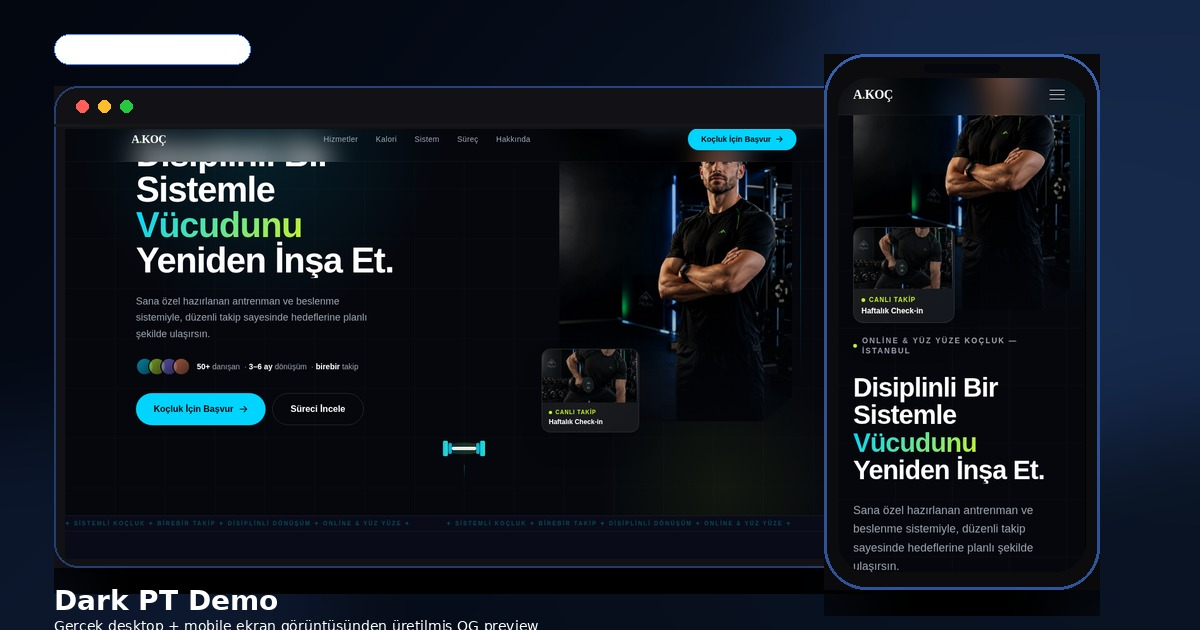
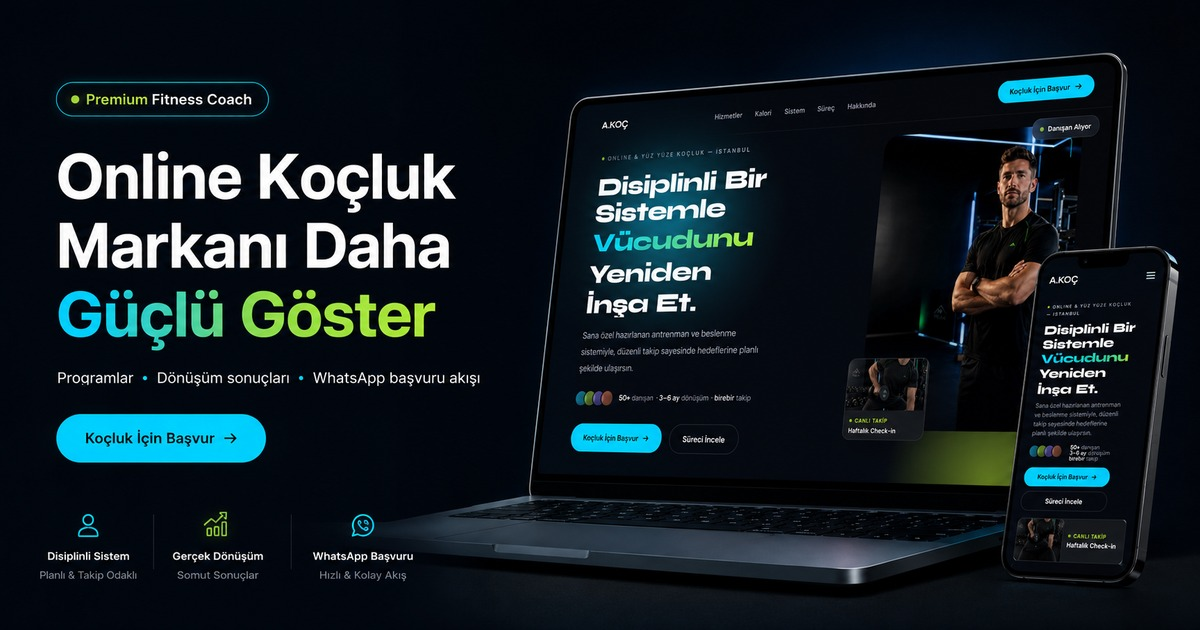
Update Dark OG preview

diff --git a/dark/index.html b/dark/index.html
@@ -3,24 +3,24 @@
 <head>
 <meta charset="UTF-8"/>
 <meta name="viewport" content="width=device-width,initial-scale=1.0"/>
-<title>Dark PT | Premium Fitness Coach Website Demo</title>
-<meta name="description" content="Güçlü, maskülen ve yüksek kontrastlı fitness koçu dijital vitrin demosu. Mobil ve masaüstü uyumlu premium görünüm.">
+<title>Dark Demo | Premium Fitness Coach İçin Güçlü Dijital Vitrin</title>
+<meta name="description" content="Online fitness koçları için programları, dönüşüm sonuçlarını ve WhatsApp başvuru akışını güçlü gösteren Dark demo.">
 <style>@import "https://fonts.googleapis.com/css2?family=Syne:wght@400;500;600;700;800&family=DM+Sans:ital,opsz,wght@0,9..40,300;0,9..40,400;0,9..40,500;0,9..40,600;1,9..40,300&display=swap";*,:before,:after,::backdrop{--tw-border-spacing-x:0;--tw-border-spacing-y:0;--tw-translate-x:0;--tw-translate-y:0;--tw-rotate:0;--tw-skew-x:0;--tw-skew-y:0;--tw-scale-x:1;--tw-scale-y:1;--tw-pan-x: ;--tw-pan-y: ;--tw-pinch-zoom: ;--tw-scroll-snap-strictness:proximity;--tw-gradient-from-position: ;--tw-gradient-via-position: ;--tw-gradient-to-position: ;--tw-ordinal: ;--tw-slashed-zero: ;--tw-numeric-figure: ;--tw-numeric-spacing: ;--tw-numeric-fraction: ;--tw-ring-inset: ;--tw-ring-offset-width:0px;--tw-ring-offset-color:#fff;--tw-ring-color:#3b82f680;--tw-ring-offset-shadow:0 0 #0000;--tw-ring-shadow:0 0 #0000;--tw-shadow:0 0 #0000;--tw-shadow-colored:0 0 #0000;--tw-blur: ;--tw-brightness: ;--tw-contrast: ;--tw-grayscale: ;--tw-hue-rotate: ;--tw-invert: ;--tw-saturate: ;--tw-sepia: ;--tw-drop-shadow: ;--tw-backdrop-blur: ;--tw-backdrop-brightness: ;--tw-backdrop-contrast: ;--tw-backdrop-grayscale: ;--tw-backdrop-hue-rotate: ;--tw-backdrop-invert: ;--tw-backdrop-opacity: ;--tw-backdrop-saturate: ;--tw-backdrop-sepia: ;--tw-contain-size: ;--tw-contain-layout: ;--tw-contain-paint: ;--tw-contain-style: }*,:before,:after{box-sizing:border-box;border:0 solid #e5e7eb}:before,:after{--tw-content:""}html,:host{-webkit-text-size-adjust:100%;tab-size:4;font-feature-settings:normal;font-variation-settings:normal;-webkit-tap-highlight-color:transparent;font-family:ui-sans-serif,system-ui,sans-serif,Apple Color Emoji,Segoe UI Emoji,Segoe UI Symbol,Noto Color Emoji;line-height:1.5}body{line-height:inherit;margin:0}hr{height:0;color:inherit;border-top-width:1px}abbr:where([title]){-webkit-text-decoration:underline dotted;text-decoration:underline dotted}h1,h2,h3,h4,h5,h6{font-size:inherit;font-weight:inherit}a{color:inherit;-webkit-text-decoration:inherit;text-decoration:inherit}b,strong{font-weight:bolder}code,kbd,samp,pre{font-feature-settings:normal;font-variation-settings:normal;font-family:ui-monospace,SFMono-Regular,Menlo,Monaco,Consolas,Liberation Mono,Courier New,monospace;font-size:1em}small{font-size:80%}sub,sup{vertical-align:baseline;font-size:75%;line-height:0;position:relative}sub{bottom:-.25em}sup{top:-.5em}table{text-indent:0;border-color:inherit;border-collapse:collapse}button,input,optgroup,select,textarea{font-feature-settings:inherit;font-variation-settings:inherit;font-family:inherit;font-size:100%;font-weight:inherit;line-height:inherit;letter-spacing:inherit;color:inherit;margin:0;padding:0}button,select{text-transform:none}button,input:where([type=button]),input:where([type=reset]),input:where([type=submit]){-webkit-appearance:button;background-color:#0000;background-image:none}:-moz-focusring{outline:auto}:-moz-ui-invalid{box-shadow:none}progress{vertical-align:baseline}::-webkit-inner-spin-button{height:auto}::-webkit-outer-spin-button{height:auto}[type=search]{-webkit-appearance:textfield;outline-offset:-2px}::-webkit-search-decoration{-webkit-appearance:none}::-webkit-file-upload-button{-webkit-appearance:button;font:inherit}summary{display:list-item}blockquote,dl,dd,h1,h2,h3,h4,h5,h6,hr,figure,p,pre{margin:0}fieldset{margin:0;padding:0}legend{padding:0}ol,ul,menu{margin:0;padding:0;list-style:none}dialog{padding:0}textarea{resize:vertical}input::-moz-placeholder{opacity:1;color:#9ca3af}textarea::-moz-placeholder{opacity:1;color:#9ca3af}input::placeholder,textarea::placeholder{opacity:1;color:#9ca3af}button,[role=button]{cursor:pointer}:disabled{cursor:default}img,svg,video,canvas,audio,iframe,embed,object{vertical-align:middle;display:block}img,video{max-width:100%;height:auto}[hidden]:where(:not([hidden=until-found])){display:none}.pointer-events-none{pointer-events:none}.visible{visibility:visible}.fixed{position:fixed}.absolute{position:absolute}.relative{position:relative}.sticky{position:sticky}.inset-0{inset:0}.-bottom-4{bottom:-1rem}.-bottom-40{bottom:-10rem}.-bottom-5{bottom:-1.25rem}.-left-2{left:-.5rem}.-right-2{right:-.5rem}.-right-4{right:-1rem}.-right-5{right:-1.25rem}.-top-3{top:-.75rem}.-top-40{top:-10rem}.-top-5{top:-1.25rem}.bottom-0{bottom:0}.bottom-5{bottom:1.25rem}.bottom-8{bottom:2rem}.bottom-\[15\%\]{bottom:15%}.left-0{left:0}.left-1\/2{left:50%}.left-4{left:1rem}.left-5{left:1.25rem}.right-0{right:0}.right-4{right:1rem}.right-5{right:1.25rem}.top-0{top:0}.top-1\/2{top:50%}.top-10{top:2.5rem}.top-4{top:1rem}.top-5{top:1.25rem}.top-\[15\%\]{top:15%}.z-10{z-index:10}.z-50{z-index:50}.order-1{order:1}.order-2{order:2}.mx-auto{margin-left:auto;margin-right:auto}.-mt-4{margin-top:-1rem}.mb-0\.5{margin-bottom:.125rem}.mb-10{margin-bottom:2.5rem}.mb-14{margin-bottom:3.5rem}.mb-16{margin-bottom:4rem}.mb-2{margin-bottom:.5rem}.mb-20{margin-bottom:5rem}.mb-4{margin-bottom:1rem}.mb-6{margin-bottom:1.5rem}.mt-14{margin-top:3.5rem}.mt-16{margin-top:4rem}.mt-2{margin-top:.5rem}.mt-3{margin-top:.75rem}.mt-4{margin-top:1rem}.block{display:block}.flex{display:flex}.inline-flex{display:inline-flex}.grid{display:grid}.hidden{display:none}.h-1\.5{height:.375rem}.h-10{height:2.5rem}.h-11{height:2.75rem}.h-12{height:3rem}.h-16{height:4rem}.h-2{height:.5rem}.h-20{height:5rem}.h-24{height:6rem}.h-3\.5{height:.875rem}.h-4{height:1rem}.h-5{height:1.25rem}.h-52{height:13rem}.h-6{height:1.5rem}.h-7{height:1.75rem}.h-8{height:2rem}.h-9{height:2.25rem}.h-\[500px\]{height:500px}.h-\[600px\]{height:600px}.h-\[700px\]{height:700px}.h-\[900px\]{height:900px}.h-full{height:100%}.h-px{height:1px}.min-h-\[100dvh\]{min-height:100dvh}.min-h-screen{min-height:100vh}.w-0\.5{width:.125rem}.w-1{width:.25rem}.w-1\.5{width:.375rem}.w-10{width:2.5rem}.w-11{width:2.75rem}.w-12{width:3rem}.w-2{width:.5rem}.w-20{width:5rem}.w-3\.5{width:.875rem}.w-4{width:1rem}.w-40{width:10rem}.w-5{width:1.25rem}.w-6{width:1.5rem}.w-7{width:1.75rem}.w-8{width:2rem}.w-9{width:2.25rem}.w-\[500px\]{width:500px}.w-\[600px\]{width:600px}.w-\[700px\]{width:700px}.w-\[900px\]{width:900px}.w-full{width:100%}.w-px{width:1px}.max-w-2xl{max-width:42rem}.max-w-4xl{max-width:56rem}.max-w-7xl{max-width:80rem}.max-w-\[360px\]{max-width:360px}.max-w-md{max-width:28rem}.max-w-sm{max-width:24rem}.max-w-xs{max-width:20rem}.flex-1{flex:1}.flex-shrink-0{flex-shrink:0}.-translate-x-1\/2{--tw-translate-x:-50%;transform:translate(var(--tw-translate-x), var(--tw-translate-y)) rotate(var(--tw-rotate)) skewX(var(--tw-skew-x)) skewY(var(--tw-skew-y)) scaleX(var(--tw-scale-x)) scaleY(var(--tw-scale-y))}.-translate-y-1\/2{--tw-translate-y:-50%;transform:translate(var(--tw-translate-x), var(--tw-translate-y)) rotate(var(--tw-rotate)) skewX(var(--tw-skew-x)) skewY(var(--tw-skew-y)) scaleX(var(--tw-scale-x)) scaleY(var(--tw-scale-y))}.-translate-y-px{--tw-translate-y:-1px;transform:translate(var(--tw-translate-x), var(--tw-translate-y)) rotate(var(--tw-rotate)) skewX(var(--tw-skew-x)) skewY(var(--tw-skew-y)) scaleX(var(--tw-scale-x)) scaleY(var(--tw-scale-y))}.translate-y-0{--tw-translate-y:0px;transform:translate(var(--tw-translate-x), var(--tw-translate-y)) rotate(var(--tw-rotate)) skewX(var(--tw-skew-x)) skewY(var(--tw-skew-y)) scaleX(var(--tw-scale-x)) scaleY(var(--tw-scale-y))}.translate-y-8{--tw-translate-y:2rem;transform:translate(var(--tw-translate-x), var(--tw-translate-y)) rotate(var(--tw-rotate)) skewX(var(--tw-skew-x)) skewY(var(--tw-skew-y)) scaleX(var(--tw-scale-x)) scaleY(var(--tw-scale-y))}.translate-y-px{--tw-translate-y:1px;transform:translate(var(--tw-translate-x), var(--tw-translate-y)) rotate(var(--tw-rotate)) skewX(var(--tw-skew-x)) skewY(var(--tw-skew-y)) scaleX(var(--tw-scale-x)) scaleY(var(--tw-scale-y))}.-rotate-45{--tw-rotate:-45deg;transform:translate(var(--tw-translate-x), var(--tw-translate-y)) rotate(var(--tw-rotate)) skewX(var(--tw-skew-x)) skewY(var(--tw-skew-y)) scaleX(var(--tw-scale-x)) scaleY(var(--tw-scale-y))}.rotate-45{--tw-rotate:45deg;transform:translate(var(--tw-translate-x), var(--tw-translate-y)) rotate(var(--tw-rotate)) skewX(var(--tw-skew-x)) skewY(var(--tw-skew-y)) scaleX(var(--tw-scale-x)) scaleY(var(--tw-scale-y))}.transform{transform:translate(var(--tw-translate-x), var(--tw-translate-y)) rotate(var(--tw-rotate)) skewX(var(--tw-skew-x)) skewY(var(--tw-skew-y)) scaleX(var(--tw-scale-x)) scaleY(var(--tw-scale-y))}@keyframes ping{75%,to{opacity:0;transform:scale(2)}}.animate-ping{animation:1s cubic-bezier(0,0,.2,1) infinite ping}@keyframes pulse{50%{opacity:.5}}.animate-pulse{animation:2s cubic-bezier(.4,0,.6,1) infinite pulse}.cursor-ew-resize{cursor:ew-resize}.cursor-pointer{cursor:pointer}.select-none{-webkit-user-select:none;user-select:none}.grid-cols-1{grid-template-columns:repeat(1,minmax(0,1fr))}.grid-cols-2{grid-template-columns:repeat(2,minmax(0,1fr))}.flex-col{flex-direction:column}.items-start{align-items:flex-start}.items-center{align-items:center}.justify-center{justify-content:center}.justify-between{justify-content:space-between}.gap-0{gap:0}.gap-1{gap:.25rem}.gap-1\.5{gap:.375rem}.gap-10{gap:2.5rem}.gap-12{gap:3rem}.gap-16{gap:4rem}.gap-2{gap:.5rem}.gap-2\.5{gap:.625rem}.gap-3{gap:.75rem}.gap-4{gap:1rem}.gap-5{gap:1.25rem}.gap-6{gap:1.5rem}.gap-7{gap:1.75rem}.gap-8{gap:2rem}.-space-x-2\.5>:not([hidden])~:not([hidden]){--tw-space-x-reverse:0;margin-right:calc(-.625rem * var(--tw-space-x-reverse));margin-left:calc(-.625rem * calc(1 - var(--tw-space-x-reverse)))}.self-start{align-self:flex-start}.overflow-hidden{overflow:hidden}.whitespace-nowrap{white-space:nowrap}.rounded-2xl{border-radius:1rem}.rounded-\[2rem\]{border-radius:2rem}.rounded-full{border-radius:9999px}.rounded-xl{border-radius:.75rem}.rounded-r-full{border-top-right-radius:9999px;border-bottom-right-radius:9999px}.rounded-bl-xl{border-bottom-left-radius:.75rem}.rounded-tr-xl{border-top-right-radius:.75rem}.border{border-width:1px}.border-2{border-width:2px}.border-y{border-top-width:1px;border-bottom-width:1px}.border-b{border-bottom-width:1px}.border-b-2{border-bottom-width:2px}.border-l-2{border-left-width:2px}.border-r-2{border-right-width:2px}.border-t{border-top-width:1px}.border-t-2{border-top-width:2px}.border-\[\#00D4FF\]\/50{border-color:#00d4ff80}.border-\[\#05070D\]{--tw-border-opacity:1;border-color:rgb(5 7 13/var(--tw-border-opacity,1))}.border-\[\#C3F22F\]\/40{border-color:#c3f22f66}.border-white\/10{border-color:#ffffff1a}.border-white\/15{border-color:#ffffff26}.border-white\/20{border-color:#fff3}.border-white\/30{border-color:#ffffff4d}.border-white\/5,.border-white\/\[0\.05\]{border-color:#ffffff0d}.border-white\/\[0\.07\]{border-color:#ffffff12}.border-white\/\[0\.08\]{border-color:#ffffff14}.border-white\/\[0\.10\]{border-color:#ffffff1a}.bg-\[\#00D4FF\]{--tw-bg-opacity:1;background-color:rgb(0 212 255/var(--tw-bg-opacity,1))}.bg-\[\#00D4FF\]\/20{background-color:#00d4ff33}.bg-\[\#05070D\]{--tw-bg-opacity:1;background-color:rgb(5 7 13/var(--tw-bg-opacity,1))}.bg-\[\#05070D\]\/40{background-color:#05070d66}.bg-\[\#05070D\]\/60{background-color:#05070d99}.bg-\[\#0B1020\]{--tw-bg-opacity:1;background-color:rgb(11 16 32/var(--tw-bg-opacity,1))}.bg-\[\#0B1020\]\/50{background-color:#0b102080}.bg-\[\#0B1020\]\/60{background-color:#0b102099}.bg-\[\#0B1020\]\/90{background-color:#0b1020e6}.bg-\[\#C3F22F\]{--tw-bg-opacity:1;background-color:rgb(195 242 47/var(--tw-bg-opacity,1))}.bg-\[\#C3F22F\]\/20{background-color:#c3f22f33}.bg-accent{--tw-bg-opacity:1;background-color:rgb(0 212 255/var(--tw-bg-opacity,1))}.bg-transparent{background-color:#0000}.bg-white{--tw-bg-opacity:1;background-color:rgb(255 255 255/var(--tw-bg-opacity,1))}.bg-white\/10{background-color:#ffffff1a}.bg-white\/50{background-color:#ffffff80}.bg-white\/\[0\.05\]{background-color:#ffffff0d}.bg-white\/\[0\.06\]{background-color:#ffffff0f}.bg-white\/\[0\.07\]{background-color:#ffffff12}.bg-gradient-to-b{background-image:linear-gradient(to bottom, var(--tw-gradient-stops))}.from-\[\#00D4FF\]\/50{--tw-gradient-from:#00d4ff80 var(--tw-gradient-from-position);--tw-gradient-to:#00d4ff00 var(--tw-gradient-to-position);--tw-gradient-stops:var(--tw-gradient-from), var(--tw-gradient-to)}.to-transparent{--tw-gradient-to:transparent var(--tw-gradient-to-position)}.object-cover{-o-object-fit:cover;object-fit:cover}.object-top{-o-object-position:top;object-position:top}.p-2{padding:.5rem}.p-4{padding:1rem}.p-5{padding:1.25rem}.p-6{padding:1.5rem}.p-7{padding:1.75rem}.px-10{padding-left:2.5rem;padding-right:2.5rem}.px-12{padding-left:3rem;padding-right:3rem}.px-2\.5{padding-left:.625rem;padding-right:.625rem}.px-3{padding-left:.75rem;padding-right:.75rem}.px-3\.5{padding-left:.875rem;padding-right:.875rem}.px-4{padding-left:1rem;padding-right:1rem}.px-5{padding-left:1.25rem;padding-right:1.25rem}.px-6{padding-left:1.5rem;padding-right:1.5rem}.px-8{padding-left:2rem;padding-right:2rem}.py-1{padding-top:.25rem;padding-bottom:.25rem}.py-1\.5{padding-top:.375rem;padding-bottom:.375rem}.py-10{padding-top:2.5rem;padding-bottom:2.5rem}.py-16{padding-top:4rem;padding-bottom:4rem}.py-2\.5{padding-top:.625rem;padding-bottom:.625rem}.py-24{padding-top:6rem;padding-bottom:6rem}.py-3{padding-top:.75rem;padding-bottom:.75rem}.py-32{padding-top:8rem;padding-bottom:8rem}.py-4{padding-top:1rem;padding-bottom:1rem}.py-5{padding-top:1.25rem;padding-bottom:1.25rem}.py-6{padding-top:1.5rem;padding-bottom:1.5rem}.pb-12{padding-bottom:3rem}.pb-6{padding-bottom:1.5rem}.pt-1{padding-top:.25rem}.pt-2{padding-top:.5rem}.pt-24{padding-top:6rem}.pt-4{padding-top:1rem}.text-left{text-align:left}.text-center{text-align:center}.font-display{font-family:Syne,sans-serif}.text-2xl{font-size:1.5rem;line-height:2rem}.text-3xl{font-size:1.875rem;line-height:2.25rem}.text-4xl{font-size:2.25rem;line-height:2.5rem}.text-5xl{font-size:3rem;line-height:1}.text-\[1\.02rem\]{font-size:1.02rem}.text-\[10px\]{font-size:10px}.text-\[2\.6rem\]{font-size:2.6rem}.text-base{font-size:1rem;line-height:1.5rem}.text-lg{font-size:1.125rem;line-height:1.75rem}.text-sm{font-size:.875rem;line-height:1.25rem}.text-xl{font-size:1.25rem;line-height:1.75rem}.text-xs{font-size:.75rem;line-height:1rem}.font-bold{font-weight:700}.font-extrabold{font-weight:800}.font-medium{font-weight:500}.font-semibold{font-weight:600}.uppercase{text-transform:uppercase}.italic{font-style:italic}.tabular-nums{--tw-numeric-spacing:tabular-nums;font-variant-numeric:var(--tw-ordinal) var(--tw-slashed-zero) var(--tw-numeric-figure) var(--tw-numeric-spacing) var(--tw-numeric-fraction)}.leading-\[1\.04\]{line-height:1.04}.leading-none{line-height:1}.leading-relaxed{line-height:1.625}.leading-snug{line-height:1.375}.leading-tight{line-height:1.25}.tracking-\[\.18em\]{letter-spacing:.18em}.tracking-\[\.25em\]{letter-spacing:.25em}.tracking-\[\.2em\],.tracking-\[0\.2em\]{letter-spacing:.2em}.tracking-tight{letter-spacing:-.025em}.tracking-wide{letter-spacing:.025em}.tracking-widest{letter-spacing:.1em}.text-\[\#00D4FF\]{--tw-text-opacity:1;color:rgb(0 212 255/var(--tw-text-opacity,1))}.text-\[\#00D4FF\]\/30{color:#00d4ff4d}.text-\[\#05070D\]{--tw-text-opacity:1;color:rgb(5 7 13/var(--tw-text-opacity,1))}.text-\[\#9AA4B2\]{--tw-text-opacity:1;color:rgb(154 164 178/var(--tw-text-opacity,1))}.text-\[\#9AA4B2\]\/50{color:#9aa4b280}.text-\[\#9AA4B2\]\/60{color:#9aa4b299}.text-\[\#C3F22F\]{--tw-text-opacity:1;color:rgb(195 242 47/var(--tw-text-opacity,1))}.text-bg{--tw-text-opacity:1;color:rgb(5 7 13/var(--tw-text-opacity,1))}.text-muted{--tw-text-opacity:1;color:rgb(154 164 178/var(--tw-text-opacity,1))}.text-white{--tw-text-opacity:1;color:rgb(255 255 255/var(--tw-text-opacity,1))}.text-white\/70{color:#ffffffb3}.text-white\/80{color:#fffc}.opacity-0{opacity:0}.opacity-100{opacity:1}.opacity-15{opacity:.15}.opacity-20{opacity:.2}.opacity-\[0\.025\]{opacity:.025}.opacity-\[0\.07\]{opacity:.07}.opacity-\[0\.12\]{opacity:.12}.shadow-2xl{--tw-shadow:0 25px 50px -12px #00000040;--tw-shadow-colored:0 25px 50px -12px var(--tw-shadow-color);box-shadow:var(--tw-ring-offset-shadow,0 0 #0000), var(--tw-ring-shadow,0 0 #0000), var(--tw-shadow)}.shadow-xl{--tw-shadow:0 20px 25px -5px #0000001a, 0 8px 10px -6px #0000001a;--tw-shadow-colored:0 20px 25px -5px var(--tw-shadow-color), 0 8px 10px -6px var(--tw-shadow-color);box-shadow:var(--tw-ring-offset-shadow,0 0 #0000), var(--tw-ring-shadow,0 0 #0000), var(--tw-shadow)}.ring{--tw-ring-offset-shadow:var(--tw-ring-inset) 0 0 0 var(--tw-ring-offset-width) var(--tw-ring-offset-color);--tw-ring-shadow:var(--tw-ring-inset) 0 0 0 calc(3px + var(--tw-ring-offset-width)) var(--tw-ring-color);box-shadow:var(--tw-ring-offset-shadow), var(--tw-ring-shadow), var(--tw-shadow,0 0 #0000)}.blur{--tw-blur:blur(8px);filter:var(--tw-blur) var(--tw-brightness) var(--tw-contrast) var(--tw-grayscale) var(--tw-hue-rotate) var(--tw-invert) var(--tw-saturate) var(--tw-sepia) var(--tw-drop-shadow)}.drop-shadow{--tw-drop-shadow:drop-shadow(0 1px 2px #0000001a) drop-shadow(0 1px 1px #0000000f);filter:var(--tw-blur) var(--tw-brightness) var(--tw-contrast) var(--tw-grayscale) var(--tw-hue-rotate) var(--tw-invert) var(--tw-saturate) var(--tw-sepia) var(--tw-drop-shadow)}.sepia{--tw-sepia:sepia(100%);filter:var(--tw-blur) var(--tw-brightness) var(--tw-contrast) var(--tw-grayscale) var(--tw-hue-rotate) var(--tw-invert) var(--tw-saturate) var(--tw-sepia) var(--tw-drop-shadow)}.filter{filter:var(--tw-blur) var(--tw-brightness) var(--tw-contrast) var(--tw-grayscale) var(--tw-hue-rotate) var(--tw-invert) var(--tw-saturate) var(--tw-sepia) var(--tw-drop-shadow)}.backdrop-blur-2xl{--tw-backdrop-blur:blur(40px);-webkit-backdrop-filter:var(--tw-backdrop-blur) var(--tw-backdrop-brightness) var(--tw-backdrop-contrast) var(--tw-backdrop-grayscale) var(--tw-backdrop-hue-rotate) var(--tw-backdrop-invert) var(--tw-backdrop-opacity) var(--tw-backdrop-saturate) var(--tw-backdrop-sepia);backdrop-filter:var(--tw-backdrop-blur) var(--tw-backdrop-brightness) var(--tw-backdrop-contrast) var(--tw-backdrop-grayscale) var(--tw-backdrop-hue-rotate) var(--tw-backdrop-invert) var(--tw-backdrop-opacity) var(--tw-backdrop-saturate) var(--tw-backdrop-sepia)}.backdrop-blur-xl{--tw-backdrop-blur:blur(24px);-webkit-backdrop-filter:var(--tw-backdrop-blur) var(--tw-backdrop-brightness) var(--tw-backdrop-contrast) var(--tw-backdrop-grayscale) var(--tw-backdrop-hue-rotate) var(--tw-backdrop-invert) var(--tw-backdrop-opacity) var(--tw-backdrop-saturate) var(--tw-backdrop-sepia);backdrop-filter:var(--tw-backdrop-blur) var(--tw-backdrop-brightness) var(--tw-backdrop-contrast) var(--tw-backdrop-grayscale) var(--tw-backdrop-hue-rotate) var(--tw-backdrop-invert) var(--tw-backdrop-opacity) var(--tw-backdrop-saturate) var(--tw-backdrop-sepia)}.transition{transition-property:color,background-color,border-color,text-decoration-color,fill,stroke,opacity,box-shadow,transform,filter,-webkit-backdrop-filter,backdrop-filter;transition-duration:.15s;transition-timing-function:cubic-bezier(.4,0,.2,1)}.transition-all{transition-property:all;transition-duration:.15s;transition-timing-function:cubic-bezier(.4,0,.2,1)}.transition-colors{transition-property:color,background-color,border-color,text-decoration-color,fill,stroke;transition-duration:.15s;transition-timing-function:cubic-bezier(.4,0,.2,1)}.transition-opacity{transition-property:opacity;transition-duration:.15s;transition-timing-function:cubic-bezier(.4,0,.2,1)}.transition-transform{transition-property:transform;transition-duration:.15s;transition-timing-function:cubic-bezier(.4,0,.2,1)}.duration-200{transition-duration:.2s}.duration-300{transition-duration:.3s}.duration-500{transition-duration:.5s}.duration-700{transition-duration:.7s}.duration-\[900ms\]{transition-duration:.9s}.ease-in-out{transition-timing-function:cubic-bezier(.4,0,.2,1)}:root{--ease-premium:cubic-bezier(.22, 1, .36, 1);--accent:#00d4ff;--energy:#c3f22f;--bg:#05070d;--card:#0b1020}*{box-sizing:border-box}html{scroll-behavior:smooth;overflow-x:hidden}body{background:var(--bg);color:#fff;-webkit-font-smoothing:antialiased;font-family:DM Sans,sans-serif;overflow-x:hidden}@media (prefers-reduced-motion:reduce){*,:before,:after{transition-duration:.01ms!important;animation-duration:.01ms!important}}.reveal{opacity:0;transition:opacity .8s var(--ease-premium), transform .8s var(--ease-premium);transform:translateY(40px)}.reveal.visible{opacity:1;transform:translateY(0)}.reveal-left{opacity:0;transition:opacity .9s var(--ease-premium), transform .9s var(--ease-premium);transform:translate(-50px)}.reveal-left.visible{opacity:1;transform:translate(0)}.reveal-scale{opacity:0;transition:opacity .8s var(--ease-premium), transform .8s var(--ease-premium);transform:scale(.92)}.reveal-scale.visible{opacity:1;transform:scale(1)}.clip-reveal{clip-path:inset(0 100% 0 0);transition:clip-path 1.1s var(--ease-premium)}.clip-reveal.visible{clip-path:inset(0 0% 0 0)}.gradient-text{background:linear-gradient(135deg,#00d4ff 0%,#c3f22f 100%);-webkit-text-fill-color:transparent;-webkit-background-clip:text;background-clip:text}.glow-accent{box-shadow:0 0 40px #00d4ff33}::-webkit-scrollbar{width:4px}::-webkit-scrollbar-track{background:var(--bg)}::-webkit-scrollbar-thumb{background:#00d4ff4d;border-radius:2px}@keyframes ambientShift{0%,to{opacity:.5;transform:scale(1)translate(0)}50%{opacity:.7;transform:scale(1.15)translate(2%,1%)}}@keyframes float{0%,to{transform:translateY(0)}50%{transform:translateY(-10px)}}@keyframes ticker{0%{transform:translate(0)}to{transform:translate(-50%)}}@keyframes drawLine{0%{stroke-dashoffset:400px}to{stroke-dashoffset:0}}@keyframes countUp{0%{opacity:0}to{opacity:1}}@keyframes glowPulse{0%,to{box-shadow:0 0 20px #00d4ff4d}50%{box-shadow:0 0 50px #00d4ff99,0 0 80px #00d4ff33}}@keyframes slideInLine{0%{width:0}to{width:100%}}.float-anim{animation:5s ease-in-out infinite float}.ticker-anim{animation:30s linear infinite ticker}.glow-pulse{animation:3s ease-in-out infinite glowPulse}.last\:border-0:last-child{border-width:0}.hover\:-translate-y-1:hover{--tw-translate-y:-.25rem;transform:translate(var(--tw-translate-x), var(--tw-translate-y)) rotate(var(--tw-rotate)) skewX(var(--tw-skew-x)) skewY(var(--tw-skew-y)) scaleX(var(--tw-scale-x)) scaleY(var(--tw-scale-y))}.hover\:-translate-y-1\.5:hover{--tw-translate-y:-.375rem;transform:translate(var(--tw-translate-x), var(--tw-translate-y)) rotate(var(--tw-rotate)) skewX(var(--tw-skew-x)) skewY(var(--tw-skew-y)) scaleX(var(--tw-scale-x)) scaleY(var(--tw-scale-y))}.hover\:-translate-y-px:hover{--tw-translate-y:-1px;transform:translate(var(--tw-translate-x), var(--tw-translate-y)) rotate(var(--tw-rotate)) skewX(var(--tw-skew-x)) skewY(var(--tw-skew-y)) scaleX(var(--tw-scale-x)) scaleY(var(--tw-scale-y))}.hover\:border-white\/35:hover{border-color:#ffffff59}.hover\:bg-white\/\[0\.04\]:hover{background-color:#ffffff0a}.hover\:text-white:hover{--tw-text-opacity:1;color:rgb(255 255 255/var(--tw-text-opacity,1))}.hover\:shadow-\[0_0_30px_rgba\(0\,212\,255\,0\.4\)\]:hover{--tw-shadow:0 0 30px #00d4ff66;--tw-shadow-colored:0 0 30px var(--tw-shadow-color);box-shadow:var(--tw-ring-offset-shadow,0 0 #0000), var(--tw-ring-shadow,0 0 #0000), var(--tw-shadow)}.hover\:shadow-\[0_0_40px_rgba\(0\,212\,255\,0\.4\)\]:hover{--tw-shadow:0 0 40px #00d4ff66;--tw-shadow-colored:0 0 40px var(--tw-shadow-color);box-shadow:var(--tw-ring-offset-shadow,0 0 #0000), var(--tw-ring-shadow,0 0 #0000), var(--tw-shadow)}.hover\:shadow-\[0_0_50px_rgba\(0\,212\,255\,0\.45\)\]:hover{--tw-shadow:0 0 50px #00d4ff73;--tw-shadow-colored:0 0 50px var(--tw-shadow-color);box-shadow:var(--tw-ring-offset-shadow,0 0 #0000), var(--tw-ring-shadow,0 0 #0000), var(--tw-shadow)}.hover\:shadow-\[0_0_50px_rgba\(195\,242\,47\,0\.4\)\]:hover{--tw-shadow:0 0 50px #c3f22f66;--tw-shadow-colored:0 0 50px var(--tw-shadow-color);box-shadow:var(--tw-ring-offset-shadow,0 0 #0000), var(--tw-ring-shadow,0 0 #0000), var(--tw-shadow)}.hover\:shadow-\[0_0_70px_rgba\(0\,212\,255\,0\.55\)\]:hover{--tw-shadow:0 0 70px #00d4ff8c;--tw-shadow-colored:0 0 70px var(--tw-shadow-color);box-shadow:var(--tw-ring-offset-shadow,0 0 #0000), var(--tw-ring-shadow,0 0 #0000), var(--tw-shadow)}.group\/a:hover .group-hover\/a\:translate-x-1{--tw-translate-x:.25rem;transform:translate(var(--tw-translate-x), var(--tw-translate-y)) rotate(var(--tw-rotate)) skewX(var(--tw-skew-x)) skewY(var(--tw-skew-y)) scaleX(var(--tw-scale-x)) scaleY(var(--tw-scale-y))}.group:hover .group-hover\:translate-x-0\.5{--tw-translate-x:.125rem;transform:translate(var(--tw-translate-x), var(--tw-translate-y)) rotate(var(--tw-rotate)) skewX(var(--tw-skew-x)) skewY(var(--tw-skew-y)) scaleX(var(--tw-scale-x)) scaleY(var(--tw-scale-y))}.group:hover .group-hover\:translate-x-1{--tw-translate-x:.25rem;transform:translate(var(--tw-translate-x), var(--tw-translate-y)) rotate(var(--tw-rotate)) skewX(var(--tw-skew-x)) skewY(var(--tw-skew-y)) scaleX(var(--tw-scale-x)) scaleY(var(--tw-scale-y))}.group:hover .group-hover\:scale-\[1\.06\]{--tw-scale-x:1.06;--tw-scale-y:1.06;transform:translate(var(--tw-translate-x), var(--tw-translate-y)) rotate(var(--tw-rotate)) skewX(var(--tw-skew-x)) skewY(var(--tw-skew-y)) scaleX(var(--tw-scale-x)) scaleY(var(--tw-scale-y))}.group:hover .group-hover\:text-\[\#00D4FF\]{--tw-text-opacity:1;color:rgb(0 212 255/var(--tw-text-opacity,1))}.group:hover .group-hover\:opacity-100{opacity:1}@media (width>=640px){.sm\:flex-row{flex-direction:row}.sm\:text-5xl{font-size:3rem;line-height:1}}@media (width>=768px){.md\:flex-row{flex-direction:row}}@media (width>=1024px){.lg\:sticky{position:sticky}.lg\:-left-8{left:-2rem}.lg\:-right-8{right:-2rem}.lg\:top-28{top:7rem}.lg\:order-1{order:1}.lg\:order-2{order:2}.lg\:block{display:block}.lg\:flex{display:flex}.lg\:grid{display:grid}.lg\:hidden{display:none}.lg\:h-20{height:5rem}.lg\:min-h-0{min-height:0}.lg\:w-44{width:11rem}.lg\:max-w-\[420px\]{max-width:420px}.lg\:max-w-none{max-width:none}.lg\:grid-cols-2{grid-template-columns:repeat(2,minmax(0,1fr))}.lg\:grid-cols-3{grid-template-columns:repeat(3,minmax(0,1fr))}.lg\:grid-cols-4{grid-template-columns:repeat(4,minmax(0,1fr))}.lg\:grid-cols-\[1fr_1\.7fr\]{grid-template-columns:1fr 1.7fr}.lg\:grid-cols-\[1fr_1fr\]{grid-template-columns:1fr 1fr}.lg\:flex-row{flex-direction:row}.lg\:items-start{align-items:flex-start}.lg\:items-end{align-items:flex-end}.lg\:justify-end{justify-content:flex-end}.lg\:justify-between{justify-content:space-between}.lg\:gap-16{gap:4rem}.lg\:gap-24{gap:6rem}.lg\:self-auto{align-self:auto}.lg\:p-8{padding:2rem}.lg\:px-10{padding-left:2.5rem;padding-right:2.5rem}.lg\:px-12{padding-left:3rem;padding-right:3rem}.lg\:px-8{padding-left:2rem;padding-right:2rem}.lg\:py-0{padding-top:0;padding-bottom:0}.lg\:py-20{padding-top:5rem;padding-bottom:5rem}.lg\:py-32{padding-top:8rem;padding-bottom:8rem}.lg\:py-44{padding-top:11rem;padding-bottom:11rem}.lg\:text-3xl{font-size:1.875rem;line-height:2.25rem}.lg\:text-5xl{font-size:3rem;line-height:1}.lg\:text-6xl{font-size:3.75rem;line-height:1}.lg\:text-\[3\.4rem\]{font-size:3.4rem}.lg\:text-base{font-size:1rem;line-height:1.5rem}.lg\:text-lg{font-size:1.125rem;line-height:1.75rem}}@media (width>=1280px){.xl\:text-6xl{font-size:3.75rem;line-height:1}.xl\:text-7xl{font-size:4.5rem;line-height:1}.xl\:text-\[4rem\]{font-size:4rem}}
 </style>
 
 <link rel="canonical" href="https://www.fatihtopcu.online/dark/">
 <meta property="og:type" content="website">
-<meta property="og:title" content="Dark PT | Premium Fitness Coach Website Demo">
-<meta property="og:description" content="Güçlü, maskülen ve yüksek kontrastlı fitness koçu dijital vitrin demosu. Mobil ve masaüstü uyumlu premium görünüm.">
+<meta property="og:title" content="Premium Fitness Coach İçin Güçlü Dijital Vitrin">
+<meta property="og:description" content="Online fitness koçları için programları, dönüşüm sonuçlarını ve WhatsApp başvuru akışını güçlü gösteren Dark demo.">
 <meta property="og:url" content="https://www.fatihtopcu.online/dark/">
 <meta property="og:image" content="https://www.fatihtopcu.online/og/dark-og.jpg">
 <meta property="og:image:secure_url" content="https://www.fatihtopcu.online/og/dark-og.jpg">
 <meta property="og:image:width" content="1200">
 <meta property="og:image:height" content="630">
-<meta property="og:image:alt" content="Dark PT | Premium Fitness Coach Website Demo preview">
+<meta property="og:image:alt" content="Dark temalı premium fitness coach dijital vitrin önizleme görseli">
 <meta name="twitter:card" content="summary_large_image">
-<meta name="twitter:title" content="Dark PT | Premium Fitness Coach Website Demo">
-<meta name="twitter:description" content="Güçlü, maskülen ve yüksek kontrastlı fitness koçu dijital vitrin demosu. Mobil ve masaüstü uyumlu premium görünüm.">
+<meta name="twitter:title" content="Premium Fitness Coach İçin Güçlü Dijital Vitrin">
+<meta name="twitter:description" content="Online fitness koçları için programları, dönüşüm sonuçlarını ve WhatsApp başvuru akışını güçlü gösteren Dark demo.">
 <meta name="twitter:image" content="https://www.fatihtopcu.online/og/dark-og.jpg">
 
 <!-- OG Capture Mode: deterministic screenshot state for social preview generation -->